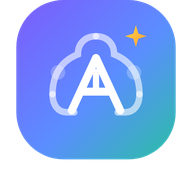
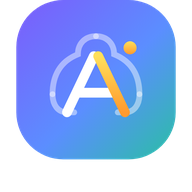
refine(brand): clearer bilingual mark — two-tone A/أ (gold alef)
The nested white أ was invisible against the white A. Redesigned as a single
two-tone letterform: the white left stroke + crossbar read as the Latin A, and
the GOLD right stroke (the alef) plus the gold dot above it (the hamza) read as
the Arabic أ. The gold-on-blue contrast makes أ unmistakable down to favicon
size, while staying elegant rather than busy.

Applied to the shared component, icon.svg + all PNGs (192/512, maskable,
apple-touch), and the OpenGraph card.

Claude-Session: https://claude.ai/code/session_014JTUkKfyDEnv8Zh19PnRgp

Changed region(s): [[0.25, 0.125, 0.75, 0.625]]

diff --git a/components/shared/AcademyLogo.tsx b/components/shared/AcademyLogo.tsx
@@ -1,7 +1,8 @@
-// Amine Academy brand mark — the original stylized brain, with a bold outline
-// «A» in its center and the Arabic «أ» nested inside the A's triangle (bilingual
-// monogram). Single source of truth: change it here and it updates everywhere
-// the component is used (landing, footer, parent portal, demo, dashboard).
+// Amine Academy brand mark — a stylized brain framing a bilingual monogram:
+// one two-tone letterform that is BOTH a Latin "A" and an Arabic "أ". The white
+// left stroke + crossbar read as the A; the gold right stroke is the alef and
+// the gold dot above it is the hamza — together an unmistakable أ. Single source
+// of truth: change it here and it updates everywhere the component is used.
 export default function AcademyLogo({ size = 44 }: { size?: number }) {
   return (
     <svg width={size} height={size} viewBox="0 0 44 44" fill="none" xmlns="http://www.w3.org/2000/svg">
@@ -11,30 +12,24 @@ export default function AcademyLogo({ size = 44 }: { size?: number }) {
           <stop offset="55%" stopColor="#5B8EFF" />
           <stop offset="100%" stopColor="#2ABFA3" />
         </linearGradient>
-        <linearGradient id="aaLogoStar" x1="0" y1="0" x2="1" y2="1">
-          <stop offset="0%" stopColor="#FFD93D" />
-          <stop offset="100%" stopColor="#FF9A3C" />
+        <linearGradient id="aaLogoGold" x1="0" y1="0" x2="0" y2="1">
+          <stop offset="0%" stopColor="#FFDF5A" />
+          <stop offset="100%" stopColor="#FF9A2E" />
         </linearGradient>
       </defs>
       <rect width="44" height="44" rx="13" fill="url(#aaLogoBg)" />
-      {/* Brain hemispheres (the original design) */}
-      <path d="M10 26 C10 21 12 17 17 15 C17 12 19 10 22 10" stroke="rgba(255,255,255,0.6)" strokeWidth="1.8" strokeLinecap="round" fill="none" />
-      <path d="M10 26 C10 29 11.5 31 14 31 L16 31" stroke="rgba(255,255,255,0.6)" strokeWidth="1.8" strokeLinecap="round" fill="none" />
-      <circle cx="11.5" cy="20" r="2" fill="rgba(255,255,255,0.25)" />
-      <path d="M34 26 C34 21 32 17 27 15 C27 12 25 10 22 10" stroke="rgba(255,255,255,0.6)" strokeWidth="1.8" strokeLinecap="round" fill="none" />
-      <path d="M34 26 C34 29 32.5 31 30 31 L28 31" stroke="rgba(255,255,255,0.6)" strokeWidth="1.8" strokeLinecap="round" fill="none" />
-      <circle cx="32.5" cy="20" r="2" fill="rgba(255,255,255,0.25)" />
-      {/* Outline A with the Arabic أ nested inside its triangle */}
-      <g stroke="white" strokeWidth="2.2" fill="none" strokeLinecap="round" strokeLinejoin="round">
-        <path d="M15.3 30.5 L22 16 L28.7 30.5" />
-        <path d="M18 25.3 L26 25.3" />
+      {/* Brain hemispheres — light frame */}
+      <path d="M10 26 C10 21 12 17 17 15 C17 12 19 10 22 10" stroke="rgba(255,255,255,0.45)" strokeWidth="1.6" strokeLinecap="round" fill="none" />
+      <path d="M10 26 C10 29 11.5 31 14 31 L16 31" stroke="rgba(255,255,255,0.45)" strokeWidth="1.6" strokeLinecap="round" fill="none" />
+      <path d="M34 26 C34 21 32 17 27 15 C27 12 25 10 22 10" stroke="rgba(255,255,255,0.45)" strokeWidth="1.6" strokeLinecap="round" fill="none" />
+      <path d="M34 26 C34 29 32.5 31 30 31 L28 31" stroke="rgba(255,255,255,0.45)" strokeWidth="1.6" strokeLinecap="round" fill="none" />
+      {/* Two-tone A / أ monogram */}
+      <g fill="none" strokeWidth="2.7" strokeLinecap="round" strokeLinejoin="round">
+        <path d="M14 31 L21.4 15.5" stroke="#fff" />
+        <path d="M17.4 25.6 L26.6 25.6" stroke="#fff" />
+        <path d="M22.6 15.5 L30 31" stroke="url(#aaLogoGold)" />
       </g>
-      <line x1="22" y1="20.4" x2="22" y2="24.6" stroke="white" strokeWidth="1.7" strokeLinecap="round" />
-      <path d="M20.8 19 L23.2 19 L22 20.6 Z" fill="white" />
-      {/* Spark */}
-      <g transform="translate(30, 7)">
-        <path d="M3 0 L3.7 2.3 L6 3 L3.7 3.7 L3 6 L2.3 3.7 L0 3 L2.3 2.3 Z" fill="url(#aaLogoStar)" opacity="0.95" />
-      </g>
+      <circle cx="31.4" cy="13.2" r="1.8" fill="url(#aaLogoGold)" />
     </svg>
   )
 }

diff --git a/app/opengraph-image.tsx b/app/opengraph-image.tsx
@@ -34,7 +34,7 @@ export default function Image() {
             border: '1px solid rgba(255,255,255,0.3)',
           }}
         >
-          {/* Brand mark — the actual logo: brain with the A/أ monogram */}
+          {/* Brand mark — the actual logo: brain with the two-tone A/أ monogram */}
           <svg width="128" height="128" viewBox="0 0 44 44" xmlns="http://www.w3.org/2000/svg">
             <defs>
               <linearGradient id="ogBg" x1="0" y1="0" x2="44" y2="44" gradientUnits="userSpaceOnUse">
@@ -42,25 +42,20 @@ export default function Image() {
                 <stop offset="55%" stopColor="#5B8EFF" />
                 <stop offset="100%" stopColor="#2ABFA3" />
               </linearGradient>
-              <linearGradient id="ogStar" x1="0" y1="0" x2="1" y2="1">
-                <stop offset="0%" stopColor="#FFD93D" />
-                <stop offset="100%" stopColor="#FF9A3C" />
+              <linearGradient id="ogGold" x1="0" y1="0" x2="0" y2="1">
+                <stop offset="0%" stopColor="#FFDF5A" />
+                <stop offset="100%" stopColor="#FF9A2E" />
               </linearGradient>
             </defs>
             <rect width="44" height="44" rx="13" fill="url(#ogBg)" />
-            <path d="M10 26 C10 21 12 17 17 15 C17 12 19 10 22 10" stroke="rgba(255,255,255,0.6)" strokeWidth="1.8" strokeLinecap="round" fill="none" />
-            <path d="M10 26 C10 29 11.5 31 14 31 L16 31" stroke="rgba(255,255,255,0.6)" strokeWidth="1.8" strokeLinecap="round" fill="none" />
-            <circle cx="11.5" cy="20" r="2" fill="rgba(255,255,255,0.25)" />
-            <path d="M34 26 C34 21 32 17 27 15 C27 12 25 10 22 10" stroke="rgba(255,255,255,0.6)" strokeWidth="1.8" strokeLinecap="round" fill="none" />
-            <path d="M34 26 C34 29 32.5 31 30 31 L28 31" stroke="rgba(255,255,255,0.6)" strokeWidth="1.8" strokeLinecap="round" fill="none" />
-            <circle cx="32.5" cy="20" r="2" fill="rgba(255,255,255,0.25)" />
-            <path d="M15.3 30.5 L22 16 L28.7 30.5" stroke="white" strokeWidth="2.2" fill="none" strokeLinecap="round" strokeLinejoin="round" />
-            <path d="M18 25.3 L26 25.3" stroke="white" strokeWidth="2.2" fill="none" strokeLinecap="round" />
-            <path d="M22 20.4 L22 24.6" stroke="white" strokeWidth="1.7" strokeLinecap="round" fill="none" />
-            <path d="M20.8 19 L23.2 19 L22 20.6 Z" fill="white" />
-            <g transform="translate(30, 7)">
-              <path d="M3 0 L3.7 2.3 L6 3 L3.7 3.7 L3 6 L2.3 3.7 L0 3 L2.3 2.3 Z" fill="url(#ogStar)" />
-            </g>
+            <path d="M10 26 C10 21 12 17 17 15 C17 12 19 10 22 10" stroke="rgba(255,255,255,0.45)" strokeWidth="1.6" strokeLinecap="round" fill="none" />
+            <path d="M10 26 C10 29 11.5 31 14 31 L16 31" stroke="rgba(255,255,255,0.45)" strokeWidth="1.6" strokeLinecap="round" fill="none" />
+            <path d="M34 26 C34 21 32 17 27 15 C27 12 25 10 22 10" stroke="rgba(255,255,255,0.45)" strokeWidth="1.6" strokeLinecap="round" fill="none" />
+            <path d="M34 26 C34 29 32.5 31 30 31 L28 31" stroke="rgba(255,255,255,0.45)" strokeWidth="1.6" strokeLinecap="round" fill="none" />
+            <path d="M14 31 L21.4 15.5" stroke="#fff" strokeWidth="2.7" fill="none" strokeLinecap="round" strokeLinejoin="round" />
+            <path d="M17.4 25.6 L26.6 25.6" stroke="#fff" strokeWidth="2.7" fill="none" strokeLinecap="round" />
+            <path d="M22.6 15.5 L30 31" stroke="url(#ogGold)" strokeWidth="2.7" fill="none" strokeLinecap="round" strokeLinejoin="round" />
+            <circle cx="31.4" cy="13.2" r="1.8" fill="url(#ogGold)" />
           </svg>
 
           {/* Title */}
